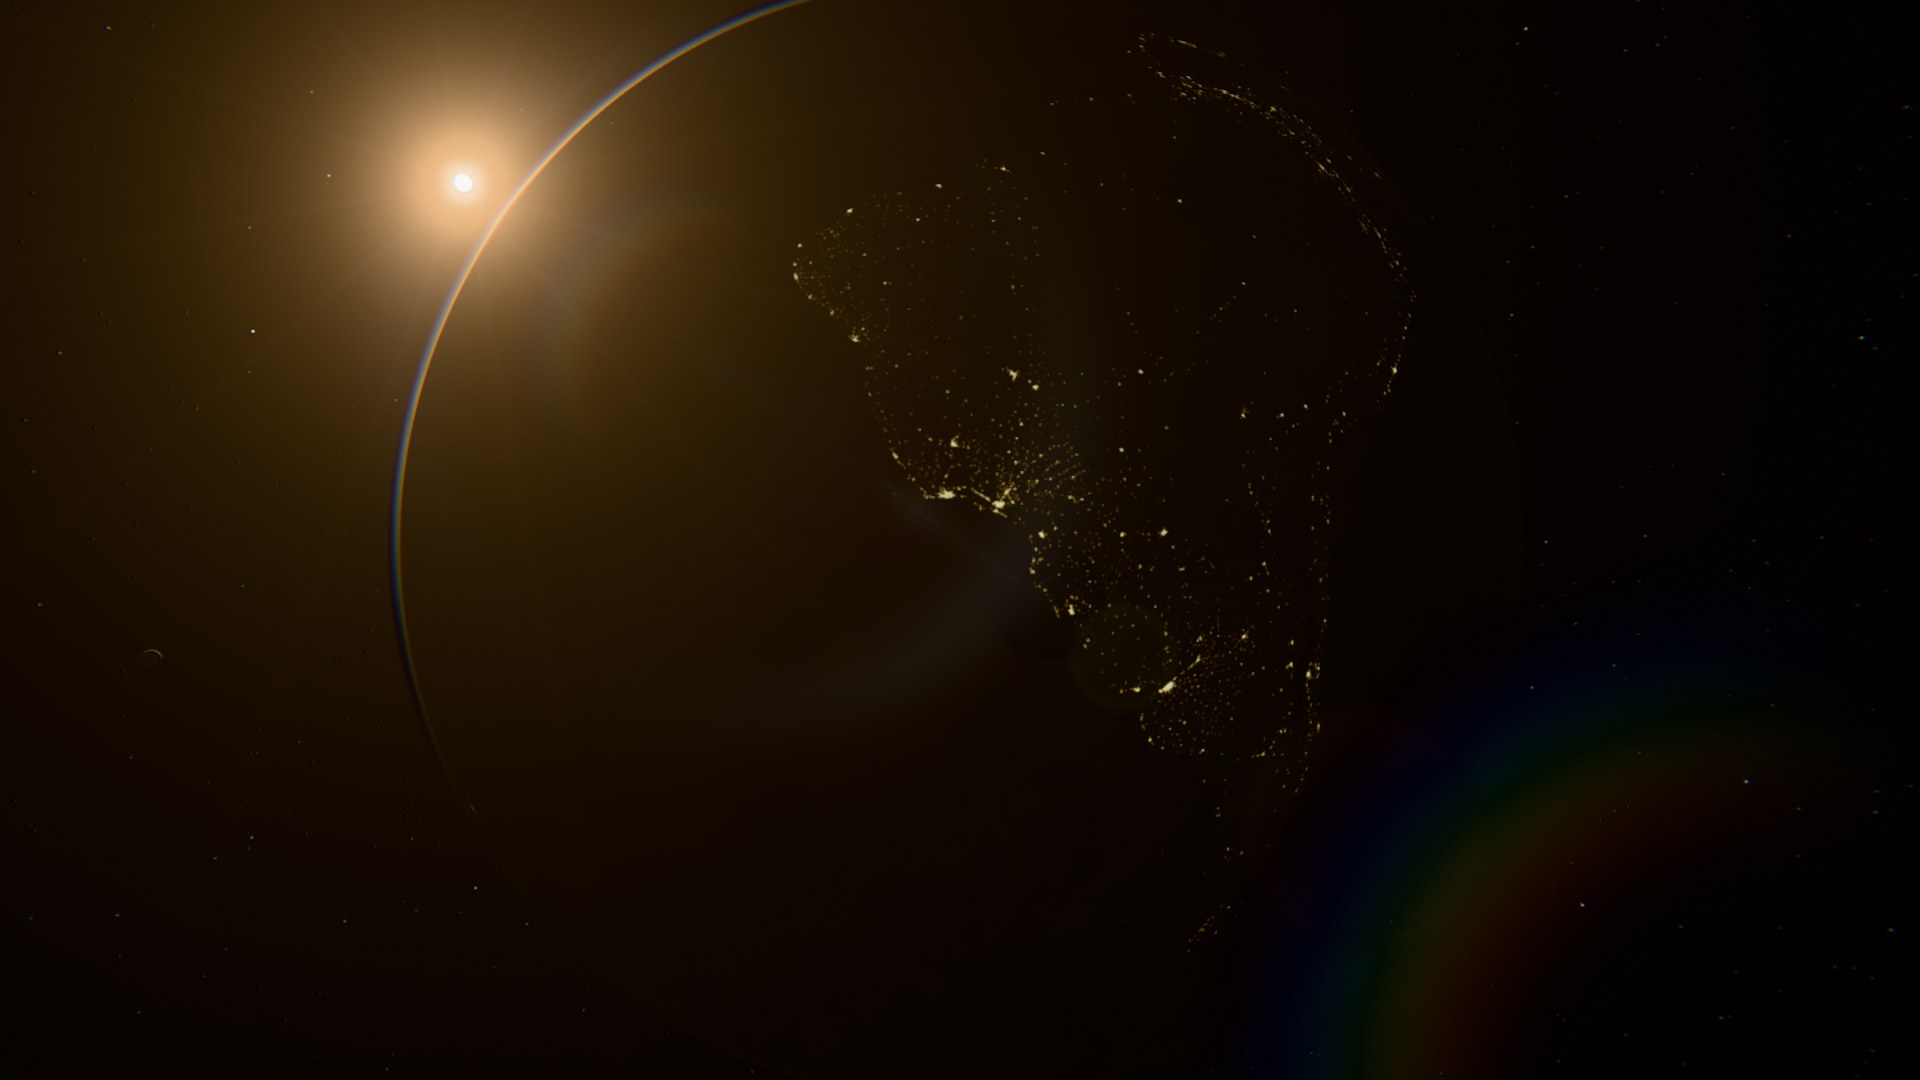
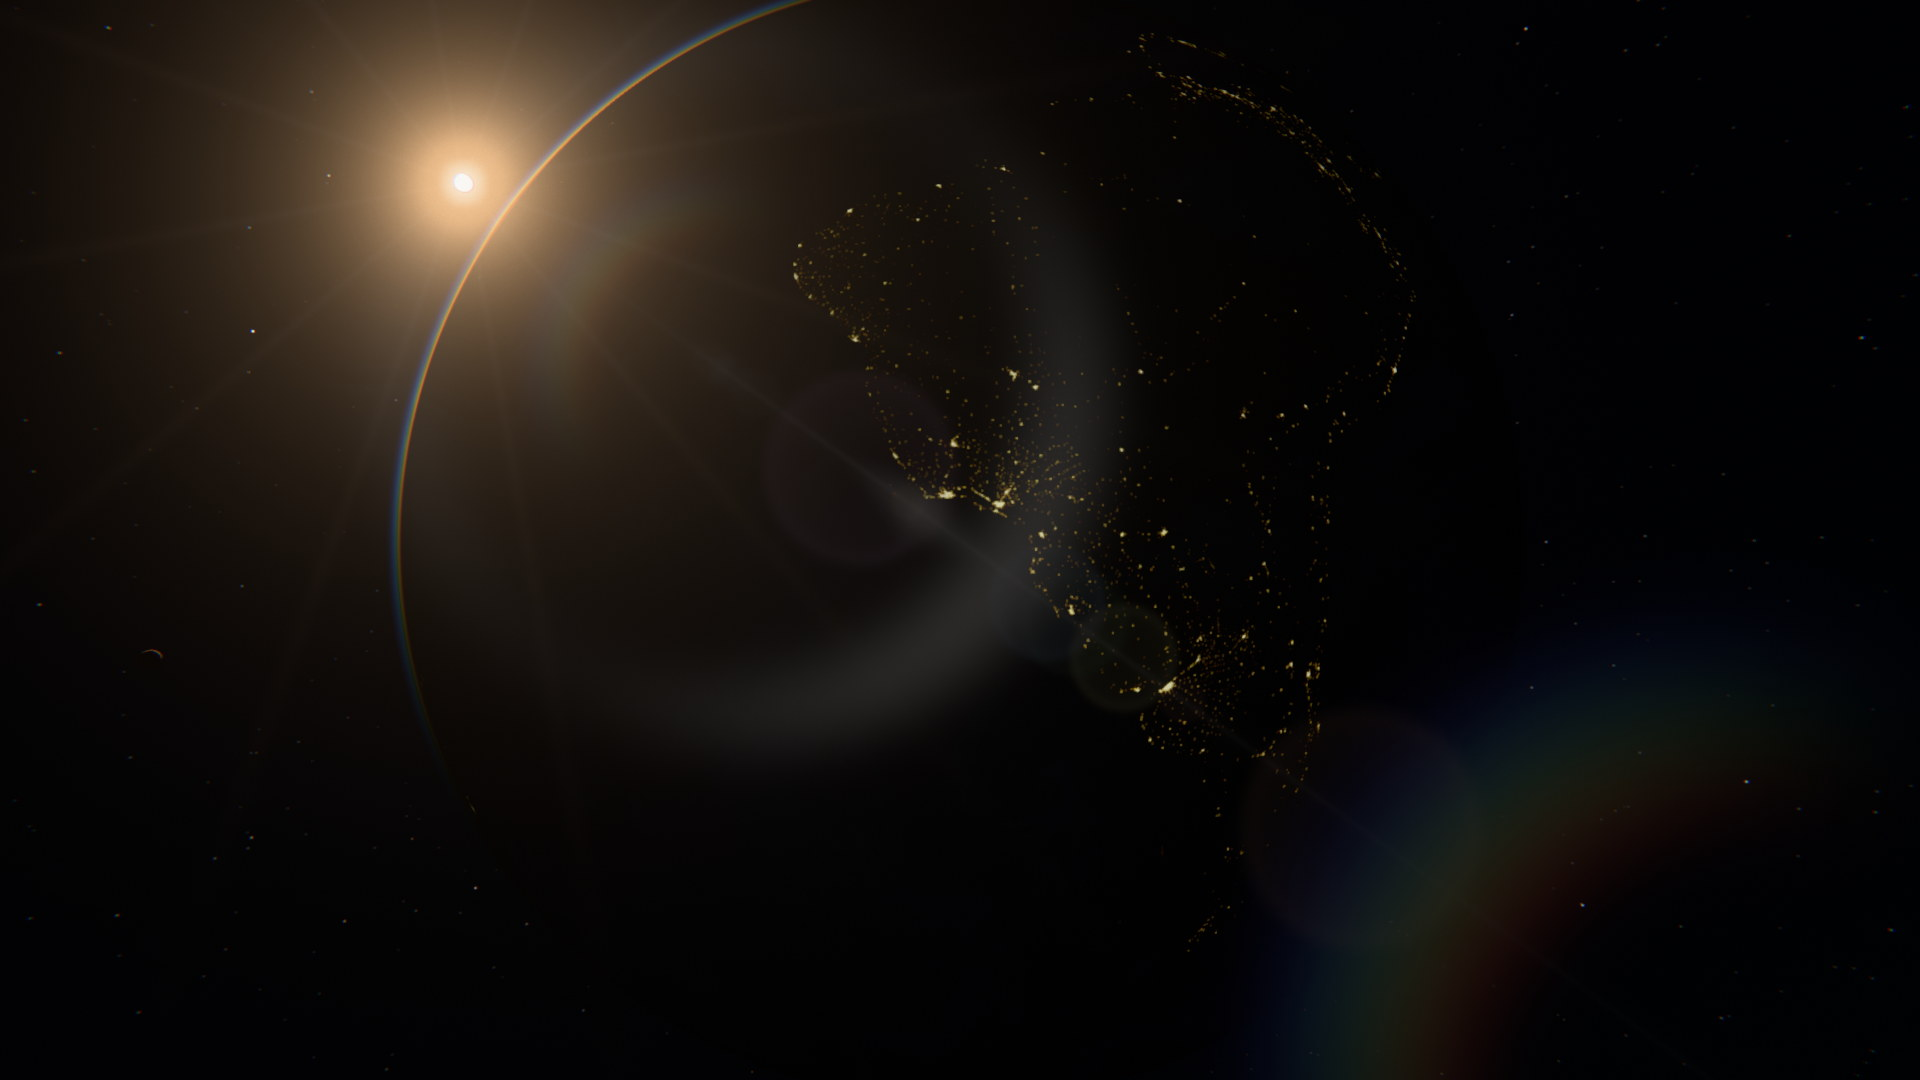
fix(post): purely additive lens; image properties recorded
The flare darkened the scene under its dimmer colours because the
neutral curve's black offset was computed from scene plus flare. The
veil is passed to the tone map apart from the scene again (offset from
the scene alone, veil added after; ACES and AgX sum), and the glare's
1/d^2 tail is cut with exp(-1.5 d) so that, with nothing subtracting
it, it does not veil the frame: the Dawn night side and the belt land
within three codes of the Sep 11 screenshots while the flare never
darkens a pixel. ARCHITECTURE.md gains an Image properties section
stating the intended render properties and how regressions are judged.
README screenshots re-rendered.

Changed region(s): [[0.4375, 0.3056, 0.5938, 0.6722]]

diff --git a/docs/DECISIONS.md b/docs/DECISIONS.md
@@ -222,3 +222,5 @@ demo now builds and renders on the Linux PC. Setup and repeatable commands are i
 - 2026-09-14: The Earth's night side was a blue disc under the city lights, posterized, even with no sun or flare in frame (a view from behind the planet measured 0.8, 2.2, 16.2 mean RGB over the dark disc). Three sources, found by muting them in turn: the Solar System Scope night map carries a blue floor over the whole globe (4, 6, 20 sRGB codes on the ocean, up to 16 codes of faint cloud and land texture) that the neutral curve keeps at full strength because its offset takes the darkest channel, and BC7 blocks of that floor were the posterization; the shared surface shading adds a constant starlight fill of albedo times (0.003, 0.004, 0.008) to every surface, blue on the ocean; and the cloud layer adds its own (0.002, 0.004, 0.008). The Earth shader now subtracts the map's floor at its 90th percentile and gates what is left below the lights' level, so the night side is black but for the lights; both fills follow a new Ambient fill control in Sun & lens (1 the former constants), default 0.25, which leaves a trace of shape on asteroid shadow sides and a faint cloud cover on the night side (0.9, 1.1, 1.9 mean RGB; 0 gives 0.9, 0.8, 0.5). ACES had hidden all three under its toe, which is why the problem read as a tone curve one. README screenshots re-rendered.
 
 - 2026-09-14: The gas giant's lighting carried the same starlight fill as the surfaces, unscaled by the new Ambient fill control, and on its night side the fill lit the cream zones blue-grey with the darker belts as gaps, the pattern reported as bluish lacunae. It now follows the control. The Moon, Mars and the rocks share the surface shading and already followed it; the atmospheres have no ambient term. The far-belt splats keep their own ambient share (0.004 of the sun's irradiance, belt/cull.slang and beltfar.slang), which is a rock-lighting constant rather than a veil. README screenshots re-rendered.
+
+- 2026-09-14: The lens is purely additive, settled. The flare had been darkening the scene under its dimmer colours (a rainbow band's red side over a bluish night side took blue down), because the neutral curve's black offset was computed from scene plus flare: a coloured veil raises the darkest channel and the offset takes that out of all three. The veil separation from earlier in the day is back (offset from the scene alone, veil added after it; ACES and AgX sum them), and the reason it was reverted turned out to be the night-side floor and fills fixed since, plus the glare's own 1/d² tail, which the published curve had been silently subtracting: purely additive, that tail lifted the Dawn night side's median from 8 to 20 codes and the belt's from 10 to 17. The glare now falls off with an extra exp(-1.5 d), which leaves the near-sun glow and drops the frame-wide veil: Dawn night side 10.7 and belt 8.7 against the Sep 11 screenshots' 7.7 and 7.3, floors back at 1. In the belt view no pixel is darker than before beyond noise (0.1 percent by more than two codes). The intended image properties are now written down in ARCHITECTURE.md (Image properties). README screenshots re-rendered.

diff --git a/docs/ARCHITECTURE.md b/docs/ARCHITECTURE.md
@@ -89,6 +89,37 @@ Between the rocks a half-resolution march through the same density field scatter
 Scoped GPU timings separately bracket compute culling, body shadows, belt light maps, far-belt bakes, the scene,
 atmospheres with dust, and post-processing. The original cull/shadow aggregate is retained in the panel and CSV.
 
+## Image properties
+
+The renders are held to these properties, settled on 2026-09-14 after the contrast and
+night-side investigations (see DECISIONS.md for the measurements). Each names where it is
+enforced and the control that scales it.
+
+- **Black is black.** With no light source in frame, space and the night sides of bodies
+  render at the tone curve's black; nothing adds a constant. The Earth night map's blue
+  floor is subtracted and gated in `surface_earth.slang`; the starlight fill on shadow
+  sides (surfaces, the cloud layer, the gas giant) follows Sun & lens > Ambient fill,
+  default 0.25 of the former constants, 0 for none. City lights and faint cloud cover are
+  what a night side shows.
+- **The lens is additive.** The sun glare, starburst, streak and the flare stack are light
+  the lens adds and never darken the scene. The composite passes them to the tone map
+  apart from the scene, so the neutral curve's black offset is taken from the scene alone
+  (ACES and AgX just sum); the glare's 1/d² tail is cut with exp(-1.5 d) so it does not
+  veil the frame once nothing subtracts it. The stack's veils are intended and scale with
+  their Sun & lens strengths; the Lens flare switch removes the stack and keeps the glare.
+- **The curve is the published PBR Neutral.** Black offset 1.0 by default (Post FX slider
+  scales the subtraction); the per-curve exposure trims, the meter key and the adaptation
+  range are Tone panel controls. The published subtraction also removes faint coloured
+  light such as the Milky Way band: the intended remedy is scene-driven exposure
+  adaptation that brings the sky up when no bright body is in view, not a lifted black.
+- **Contrast reference.** The Sep 11 screenshots (`docs/images` at 7c9535b) are the target:
+  at 1920x1080 with `--time 0`, the belt view's median is 7 display codes and the Dawn
+  night side's 8; a change that moves either by more than a few codes is a regression
+  unless it is the point of the change.
+- **Review method.** Fixed-time captures per bookmark (`--time 0 --frames 90 --no-hud`),
+  the sun placed with `--sun-at` for lens review, and percentile statistics of the
+  captures rather than eyeballing, with a stretched crop for the dark regions.
+
 ## Renderer implementation
 
 `Renderer::Impl` owns the device, heaps, images and pipeline lifetime registry. The implementation
